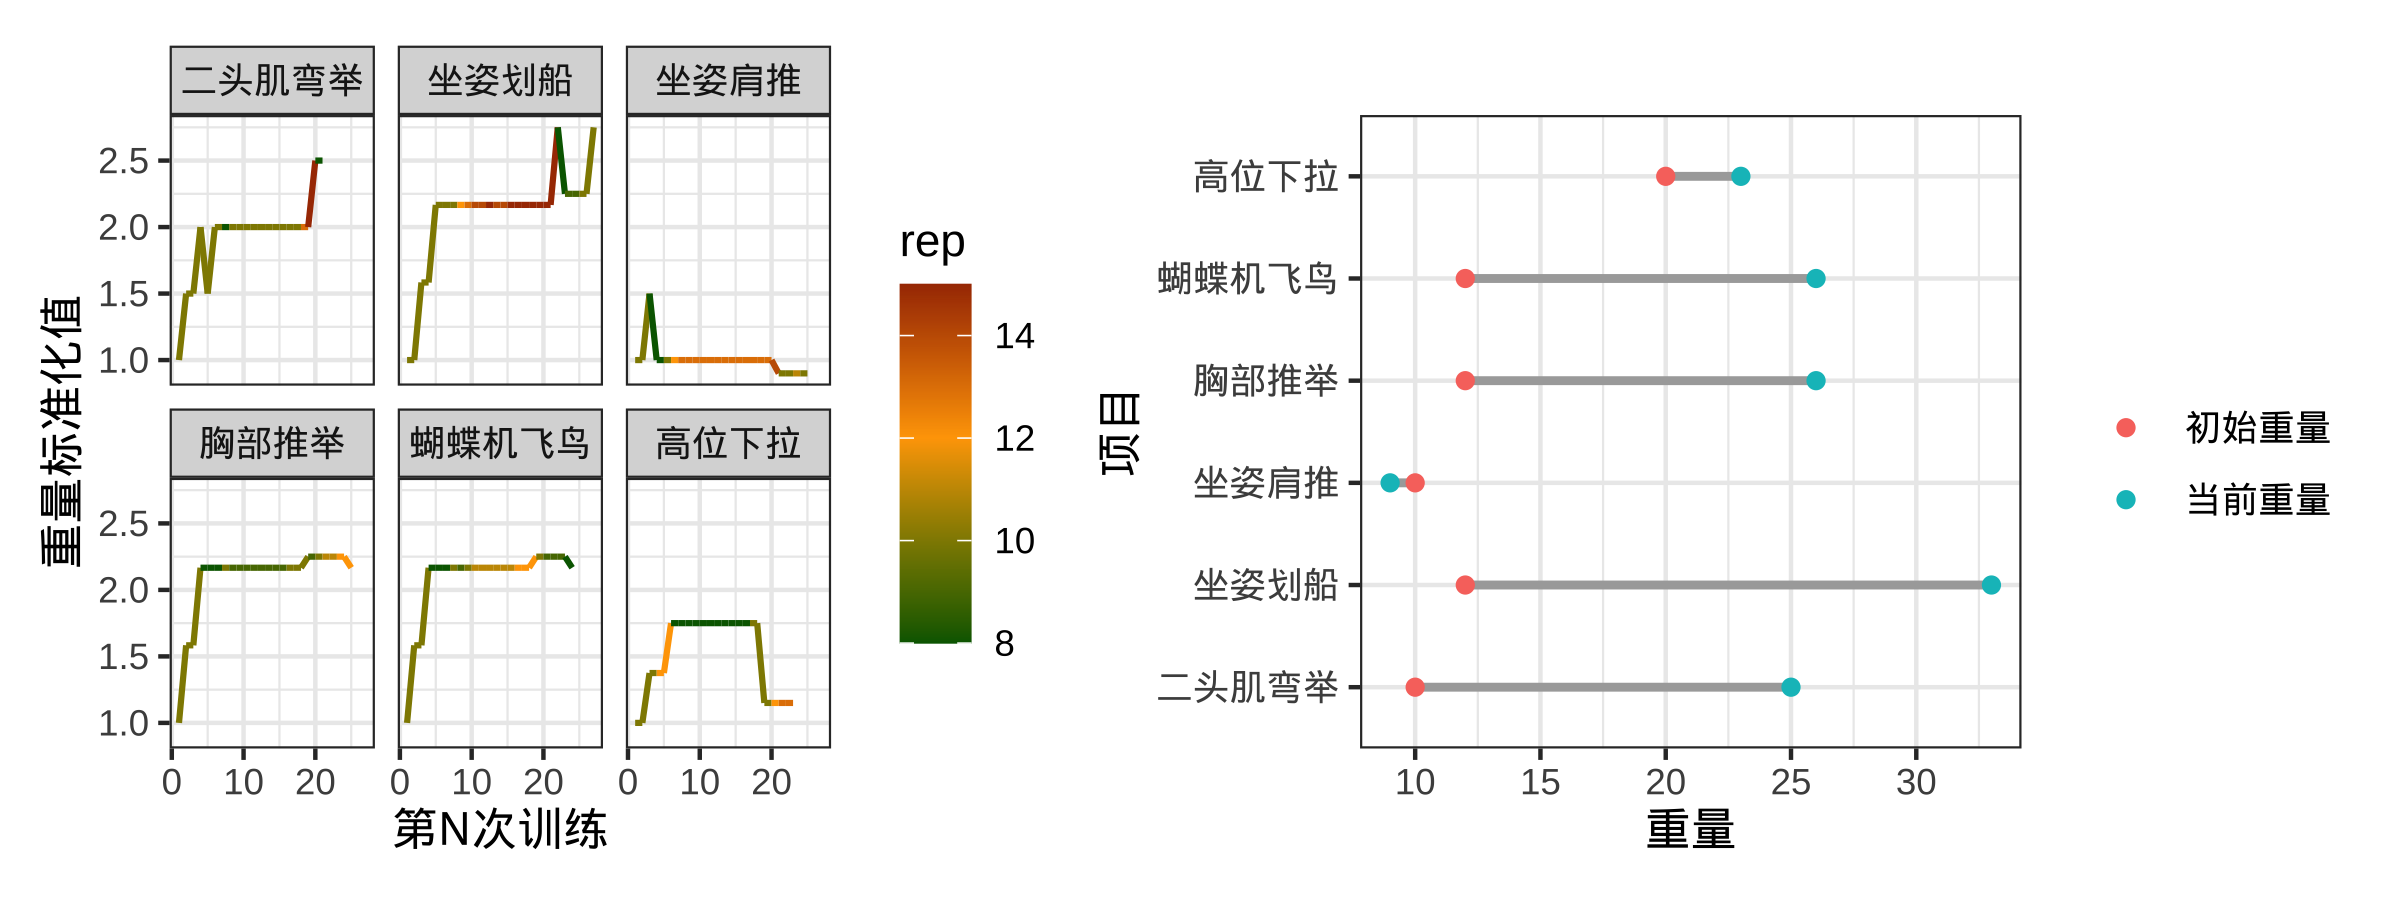
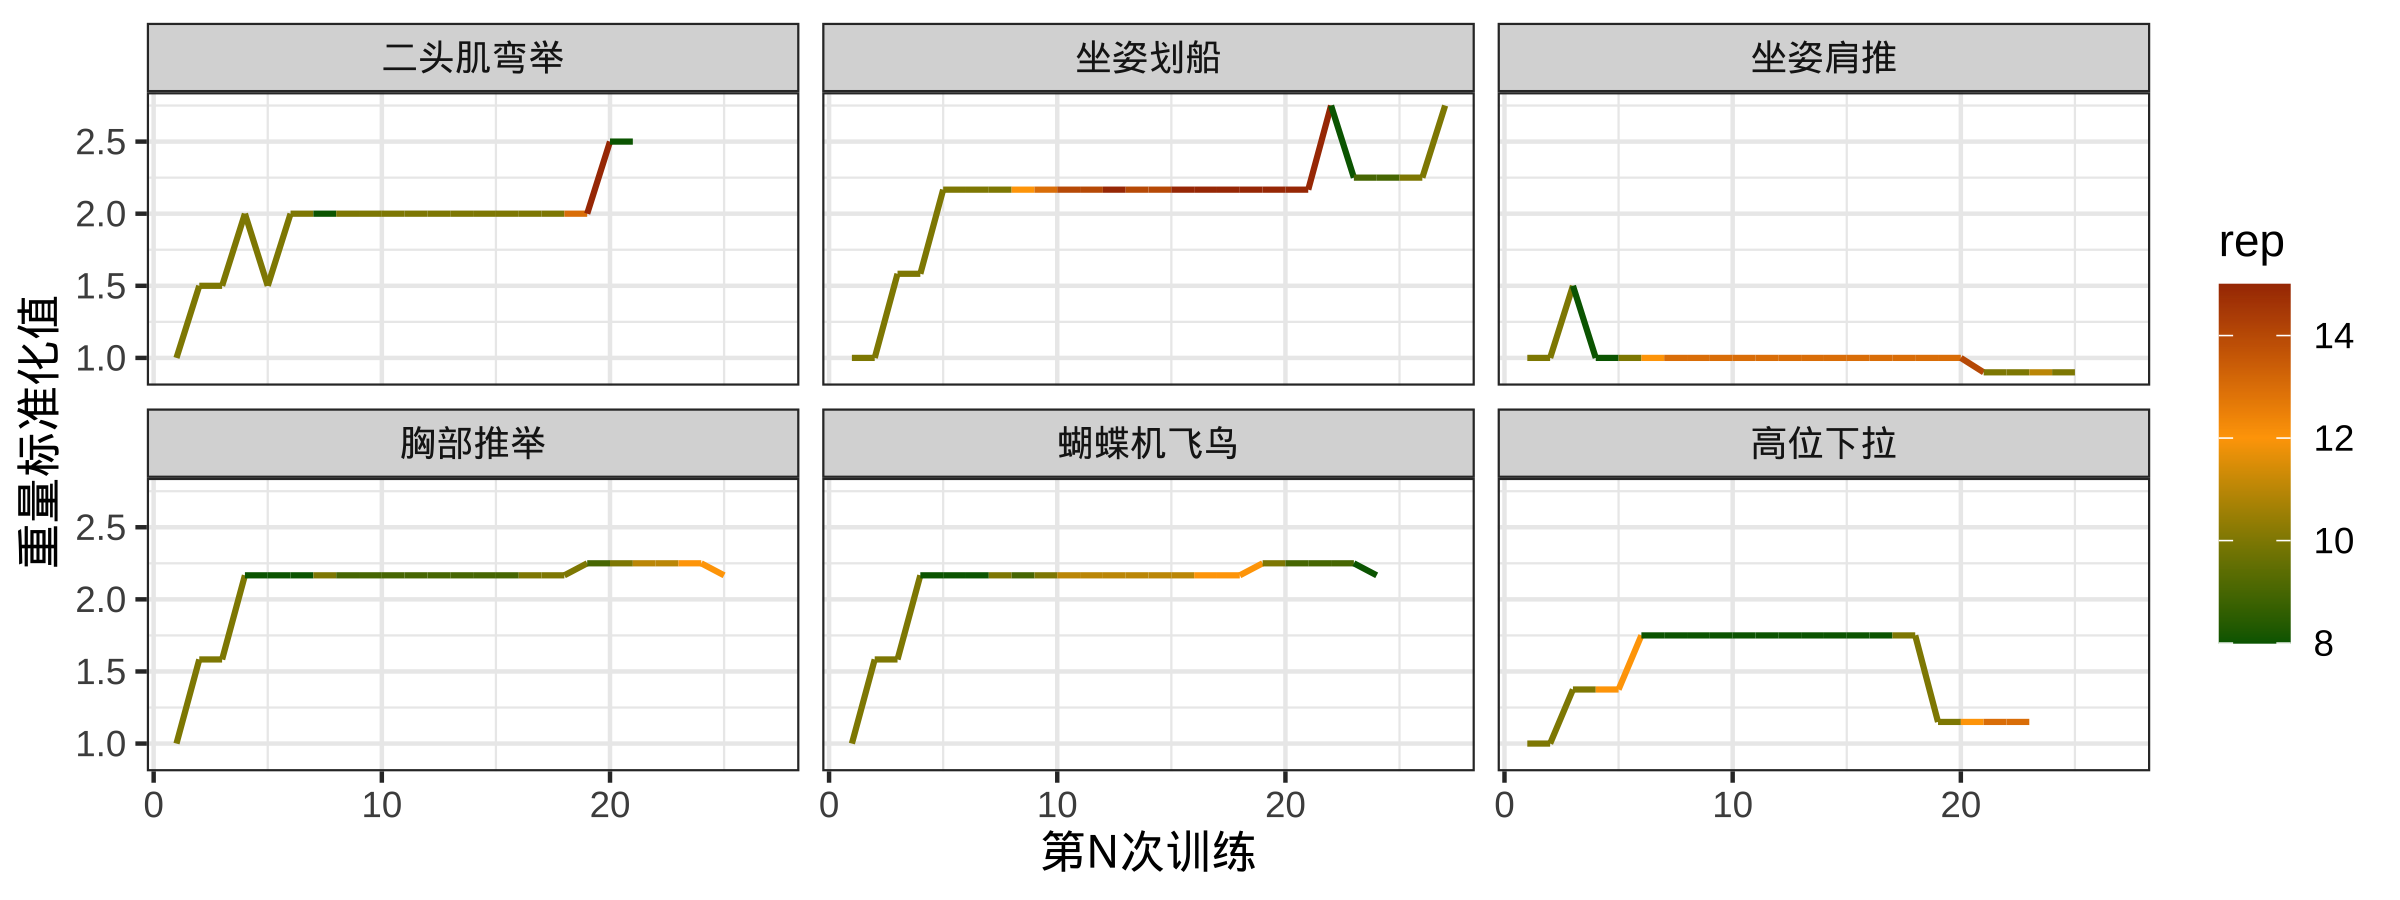
fix: revise figure

Changed region(s): [[0.0, 0.0, 1.0, 0.9644], [0.4375, 0.9022, 0.5312, 0.9644], [0.9062, 0.2489, 0.9688, 0.28]]

diff --git a/README.md b/README.md
@@ -3,3 +3,5 @@
 减重如山倒，增肌如抽丝。2022年写博士毕业论文的一个月体重减少了两公斤，之后去德国两个月又减少了两公斤，之后体重维持平稳。为了恢复体重，之后断断续续健身和增加热量摄入，无果。2024年春末夏初终于开始认真健身，企图将摄入的热量固定下来。通常每周训练3次，重点训练胸肌和肩背。两大肌群各有3-4个动作，每次训练中，每个动作做3组，每组8-15个重复。健身开始至今，尝试了约20个动作，以固定器械为主，下面两图展示最常练的几个动作的重量变化。
 
 ![](README_files/figure-commonmark/unnamed-chunk-2-1.png)
+
+![](README_files/figure-commonmark/unnamed-chunk-2-2.png)
